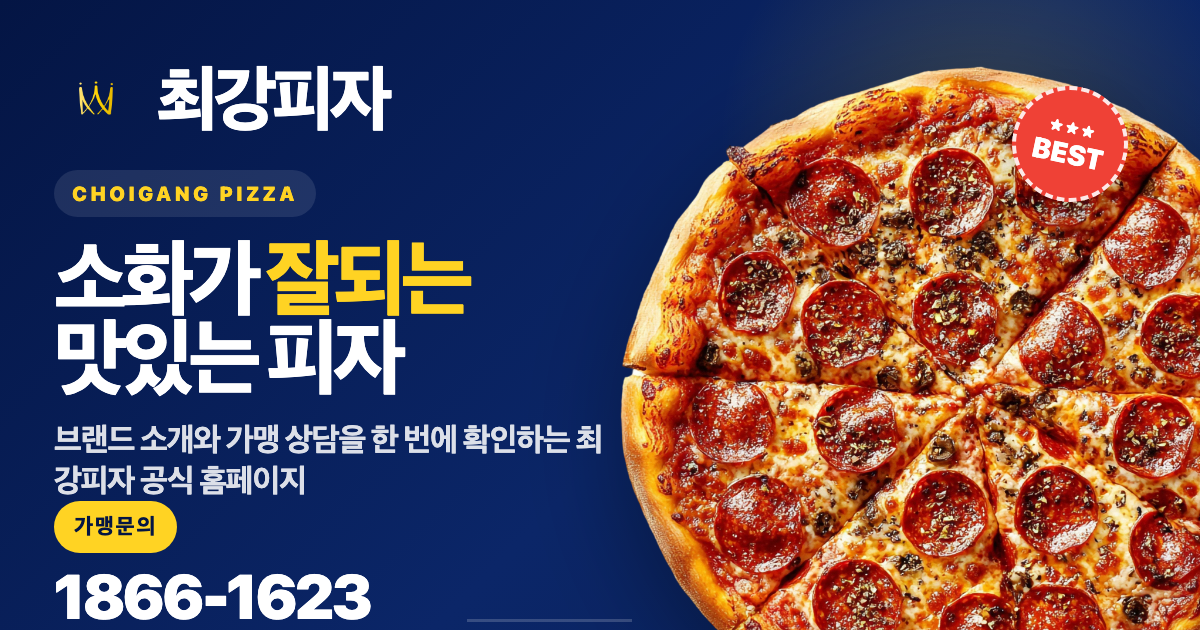
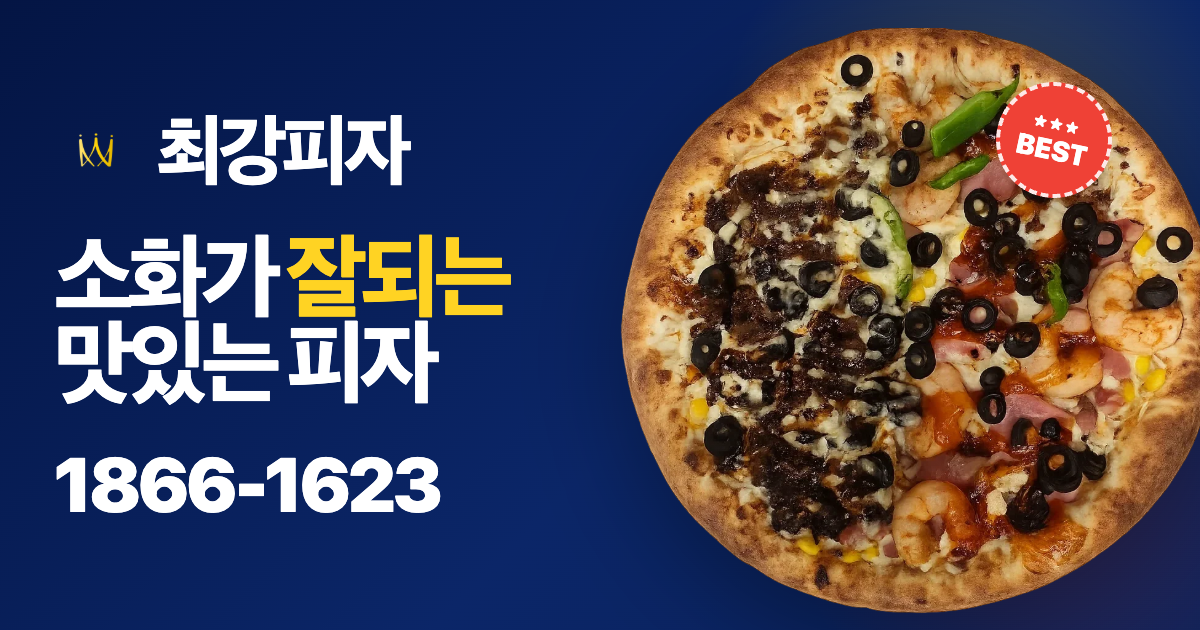
Refine hero pizza layout and share preview

diff --git a/src/components/home/ported/ported-hero.tsx b/src/components/home/ported/ported-hero.tsx
@@ -153,19 +153,19 @@ export function PortedHero({ hero, onOpenBrandModal }: PortedHeroProps) {
             </motion.button>
           </div>
 
-          <div className="relative mx-auto mb-8 w-full max-w-[25rem] md:hidden">
-            <div className="pointer-events-none absolute right-[8%] top-[6%] z-10 flex h-[4.5rem] w-[4.5rem] translate-x-[10%] -translate-y-[2%] rotate-[12deg] flex-col items-center justify-center rounded-full border-[3px] border-dashed border-white bg-[#ef4136] text-white shadow-xl">
+          <div className="relative mx-auto mb-8 w-[102vw] max-w-[26rem] md:hidden">
+            <div className="pointer-events-none absolute right-[10%] top-[12%] z-10 flex h-[4.75rem] w-[4.75rem] translate-x-[6%] -translate-y-[8%] rotate-[12deg] flex-col items-center justify-center rounded-full border-[3px] border-dashed border-white bg-[#ef4136] text-white shadow-xl">
               <span className="text-[8px] font-bold tracking-widest">★★★</span>
-              <span className="text-[0.95rem] font-black">{hero.badge}</span>
+              <span className="text-[1rem] font-black">{hero.badge}</span>
             </div>
-            <div className="relative mx-auto aspect-[1.08/1] w-full max-w-[22rem]">
+            <div className="relative aspect-square w-full">
               <Image
                 src={hero.clusterImage}
                 alt={hero.clusterAlt}
                 fill
                 priority
                 sizes="(max-width: 767px) 88vw, 0px"
-                className="object-contain drop-shadow-[0_24px_28px_rgba(0,0,0,0.42)]"
+                className="object-cover object-center drop-shadow-[0_28px_32px_rgba(0,0,0,0.42)]"
               />
             </div>
           </div>
@@ -193,24 +193,25 @@ export function PortedHero({ hero, onOpenBrandModal }: PortedHeroProps) {
         <div aria-hidden="true" className="hidden min-h-[36rem] md:block lg:min-h-[43rem]" />
 
         <div className="pointer-events-none absolute inset-0 hidden md:block">
-          <div className="absolute right-[-22%] top-[46%] z-0 w-[42rem] -translate-y-[47%] lg:right-[-18%] lg:w-[50rem] xl:right-[-16%] xl:w-[56rem]">
-            <motion.img
-              src={hero.clusterImage}
-              alt={hero.clusterAlt}
-              style={{
-                rotateX: smoothRotateX,
-                rotateY: smoothRotateY,
-                rotateZ: smoothRotateZ,
-                transformPerspective: 1600,
-              }}
-              className="h-auto w-full object-contain drop-shadow-[0_42px_44px_rgba(0,0,0,0.58)] will-change-transform"
-            />
-          </div>
-
-          <div className="absolute right-[2.4rem] top-[5.8rem] z-20 flex h-24 w-24 rotate-[14deg] flex-col items-center justify-center rounded-full border-4 border-dashed border-white bg-[#ef4136] text-white shadow-xl lg:right-[3rem] lg:top-[6.2rem] lg:h-28 lg:w-28 xl:right-[4rem] xl:top-[6.4rem]">
-            <span className="text-[10px] font-bold tracking-widest">★★★</span>
-            <span className="text-xl font-black lg:text-2xl">{hero.badge}</span>
-            <div className="mt-1 h-0.5 w-12 bg-white/30" />
+          <div className="absolute right-[-12%] top-[49%] z-0 w-[35rem] -translate-y-[49%] lg:right-[-8%] lg:w-[39rem] xl:right-[1%] xl:w-[42rem] 2xl:right-[-12%] 2xl:top-[48%] 2xl:w-[50rem]">
+            <div className="relative ml-auto w-fit max-w-full">
+              <motion.img
+                src={hero.clusterImage}
+                alt={hero.clusterAlt}
+                style={{
+                  rotateX: smoothRotateX,
+                  rotateY: smoothRotateY,
+                  rotateZ: smoothRotateZ,
+                  transformPerspective: 1600,
+                }}
+                className="h-auto w-auto max-h-[min(76vh,43rem)] max-w-full object-contain drop-shadow-[0_42px_44px_rgba(0,0,0,0.58)] will-change-transform lg:max-h-[min(78vh,46rem)] 2xl:max-h-[min(82vh,54rem)]"
+              />
+              <div className="absolute right-[20%] top-[15%] z-20 flex h-24 w-24 translate-x-[6%] -translate-y-[10%] rotate-[14deg] flex-col items-center justify-center rounded-full border-4 border-dashed border-white bg-[#ef4136] text-white shadow-xl lg:right-[18%] lg:top-[14%] lg:h-28 lg:w-28 xl:right-[17%] xl:top-[14%] 2xl:right-[24%] 2xl:top-[13%]">
+                <span className="text-[10px] font-bold tracking-widest">★★★</span>
+                <span className="text-xl font-black lg:text-2xl">{hero.badge}</span>
+                <div className="mt-1 h-0.5 w-12 bg-white/30" />
+              </div>
+            </div>
           </div>
         </div>
       </div>

diff --git a/src/lib/ported-homepage-data.ts b/src/lib/ported-homepage-data.ts
@@ -75,7 +75,7 @@ export const portedHomepageData = {
       "최고의 재료, 최강의 맛! 부천본점의 특별함을 만나보세요.",
     highlight: "",
     backgroundImage: "",
-    clusterImage: "/assets/user/hero-main-image-pizza.webp",
+    clusterImage: "/assets/user/hero-main-image-pizza-square.webp",
     clusterAlt: "최강피자 대표 메뉴 실사 이미지",
     primaryCta: {
       label: "대표 메뉴 보기",
